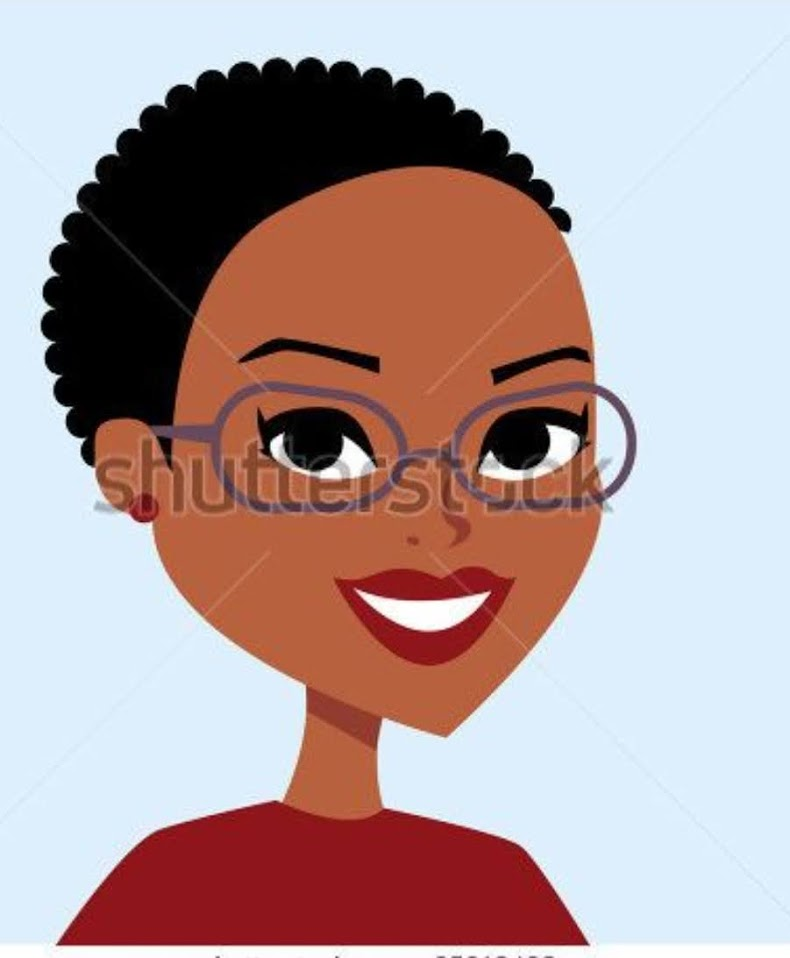
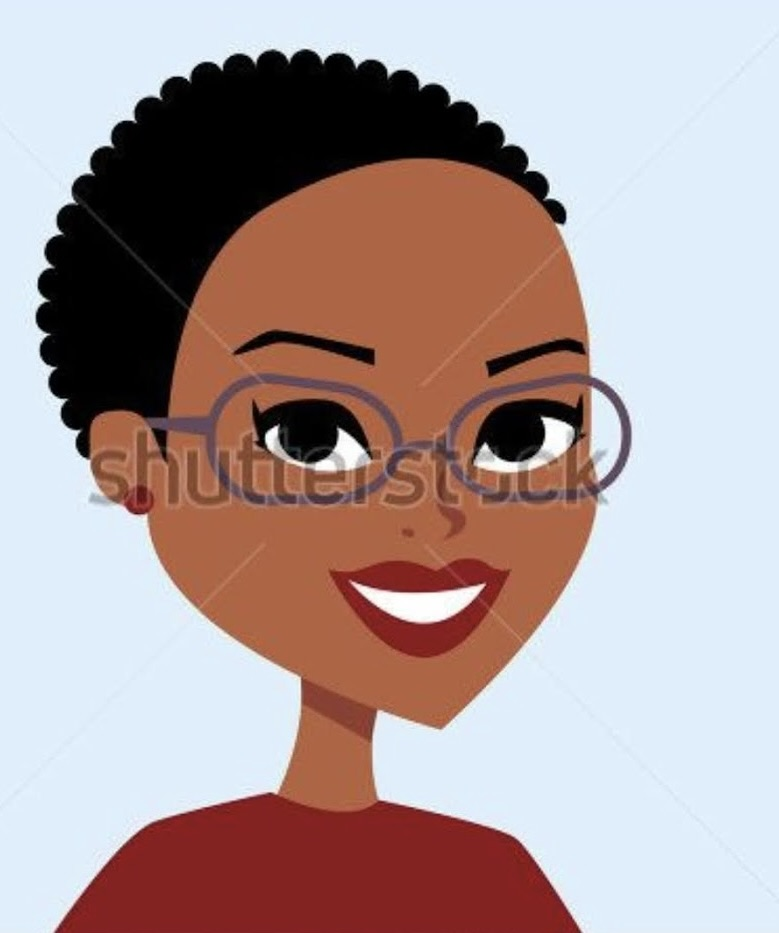
ADDED: navbar, css styling, changed button functionality, added a border on the photos and edited the photos

diff --git a/flask/templates/index1.html b/flask/templates/index1.html
@@ -1,4 +1,4 @@
- <!DOCTYPE html>
+<!DOCTYPE html>
 <html lang="en">
 <head>
     <meta charset="UTF-8">
@@ -13,48 +13,67 @@
     <link href="https://fonts.googleapis.com/css2?family=Anton&display=swap" rel="stylesheet">
 </head>
 <body>
+    <nav class="navbar navbar-expand-lg navbar-light bg-light">
+        <div class="container-fluid">
+            <a class="navbar-brand" href="#"><img id="powerpuffLogo" src="{{ url_for('static', filename='logos/logo22.png') }}" alt="logo" height="75"></a>
+            <button class="navbar-toggler" type="button" data-bs-toggle="collapse" data-bs-target="#navbarNav" aria-controls="navbarNav" aria-expanded="false" aria-label="Toggle navigation">
+                <span class="navbar-toggler-icon"></span>
+            </button>
+
+            <div id="navbarNav" class="collapse navbar-collapse">
+                <ul class="navbar-nav ms-auto">
+                    <li class="nav-item"><a href="#daliya" class="nav-link">Daliya</a></li>
+                    <li class="nav-item"><a href="#daphne" class="nav-link">Daphne</a></li>
+                    <li class="nav-item"><a href="#emma" class="nav-link">Emma</a></li>
+                    <li class="nav-item"><a href="#liya" class="nav-link">Liya</a></li>
+                    <li class="nav-item"><a href="#nadine" class="nav-link">Nadine</a></li>
+                </ul>
+            </div>
+        </div>
+    </nav>
+
     <div class="about-section">
-        <h1>This Is Group 2</h1>
-        <p>Hello we are Group 2</p>
+        <h1>&#9733 This Is Group 2 &#9733</h1>
+        <p>Hello We Are Group 2</p>
         <p>We are girls with the dream to reach the Moon, we will reach it after landing a few stars!!😉</p>
     </div>
     <h2 style="text-align:center">Our Team</h2>
     <div class="row">
         <div class="column">
             <div class="card">
-                <img id ="daliya" src="{{ url_for('static', filename='Screenshot_20250324_140529_Chrome.jpg') }}" alt="Daliya"  style="width:150px; height=auto;">
+                <img id ="daliya" src="{{ url_for('static', filename='daliya.jpg') }}" alt="Daliya">
                 <div class="container">
                     <h2>Daliya</h2>
                     <p class="title">Coding Nurse</p>
                     <p>Meet our mum of two, who aims to be a coding nurse</p>
                     <p>daliya@example.com</p>
-                    <p><button class="button" > <a href = "http://127.0.0.1:8000/daliya/hello1">Know me better!</a> </button></p>
+                    <p><a href="http://127.0.0.1:8000/daliya/hello1"><button class="button">&#9733 Know Daliya &#9733</button></a></p>
                 </div>
             </div>
         </div>
 
     <div class="column">
         <div class="card">
-            <img id ="daphne" src="{{ url_for('static', filename='Daphne.jpg') }}" alt="Daphne"  style="width:150px; height=auto;">
+            <img id="daphne" src="{{ url_for('static', filename='Daphne.jpg') }}" alt="Daphne">
             <div class="container">
                 <h2>Daphne</h2>
                 <p class="title">Coding Support Worker</p>
                 <p>Next is Cool coding aspirant who is going to change the world.</p>
                 <p>daphne@example.com</p>
-                <p><button class="button"><a href = "http://127.0.0.1:8000/daliya/Daphne">Know Daphne!!</a></button></p>
+                <p><a href="http://127.0.0.1:8000/daliya/Daphne"><button class="button">&#9733 Know Daphne &#9733</button></a></p>
                 </div>
             </div>
         </div>
 
     <div class="column">
         <div class="card">
-            <img id ="emma" src="{{ url_for('static', filename='Emma.jpg') }}" alt="Emma"  style="width:150px; height=auto;">
+            <img id ="emma" src="{{ url_for('static', filename='Emma.jpg') }}" alt="Emma">
             <div class="container">
                 <h2>Emma</h2>
                 <p class="title">Coding Police Researcher</p>
                 <p>Here comes, brave and coding Police, who would make the world a better place!!</p>
                 <p>emma@example.com</p>
-                <p><button class="button"><a href = "http://127.0.0.1:8000/daliya/emma">Know Emma!!</a></button></p>
+                <p><a href="http://127.0.0.1:8000/daliya/emma"><button class="button">&#9733 Know Emma &#9733</button></a></p>
                 </div>
             </div>
         </div>
@@ -62,30 +81,31 @@
         <div class="row">
         <div class="column">
             <div class="card">
-                    <img id ="liya" src="{{ url_for('static', filename='Liya.jpg') }}" alt="Liya"  style="width:150px; height=auto;">
+                    <img id ="liya" src="{{ url_for('static', filename='Liya.jpg') }}" alt="Liya">
                 <div class="container">
                     <h2>Liya</h2>
                     <p class="title">Coding Legal Tech Analyst</p>
                     <p>We have the lady of justice who uses her power of Analysis and Coding!!</p>
                     <p>liya@example.com</p>
-                    <p><button class="button"><a href = "http://127.0.0.1:8000/daliya/liya">Know Liya!!</a></button></p>
+                    <p><a href="http://127.0.0.1:8000/daliya/liya"><button class="button">&#9733 Know Liya &#9733</button></a></p>
                 </div>
             </div>
         </div>
 
         <div class="column">
             <div class="card">
-                    <img id ="nadine" src="{{ url_for('static', filename='Nadine.jpg') }}" alt="Nadine"  style="width:150px; height=auto;">
+                    <img id ="nadine" src="{{ url_for('static', filename='Nadine.jpg') }}" alt="Nadine">
                 <div class="container">
                     <h2>Nadine</h2>
                     <p class="title">Aspiring Coding Entrepreneur and Student</p>
                     <p>Last but not least, in any terms. Team lead in the making, a bright  tech student</p>
                     <p>nadine@example.com</p>
-                    <p><button class="button"><a href = "http://127.0.0.1:8000/daliya/nadine/hello_nadine">Know Nadine!!</a></button></p>
+                    <p><a href="http://127.0.0.1:8000/daliya/nadine/hello_nadine"><button class="button">&#9733 Know Nadine &#9733</button></a></p>
                 </div>
             </div>
         </div>
     </div>
 </div>
+<footer>&copy; Powerpuff Profiles 2025</footer>
 </body>
 </html>

diff --git a/flask/static/style1.css b/flask/static/style1.css
@@ -1,64 +1,88 @@
+.navbar {
+    position: fixed;
+    top: 0;
+    left: 0;
+    right: 0;
+    z-index: 1000;
+    box-shadow: 5px darkgray;
+}
+
+.navbar-light.bg-light {
+    background-color: rgba(255, 255, 255, 0.9);
+}
+
+.nav-item {
+    text-transform: capitalize;
+}
+
+
 body {
-  font-family: "Anton", sans-serif;
-  margin: 0;
+    font-family: "Anton", sans-serif;
+    margin: 0;
 }
 
 html {
-  box-sizing: border-box;
+    box-sizing: border-box;
 }
 
 *, *:before, *:after {
-  box-sizing: inherit;
+    box-sizing: inherit;
 }
 
 .column {
-  float: right;
-  width: 33.3%;
-  margin-bottom: 16px;
-  padding: 0 8px;
-
+    float: right;
+    width: 33.3%;
+    margin-bottom: 16px;
+    padding: 0 8px;
 }
 
 .card {
-  box-shadow: 0 4px 8px 0 rgba(0, 0, 0, 0.2);
-  margin: 8px;
+    box-shadow: 0 4px 8px 0 rgba(0, 0, 0, 0.2);
+    margin: 8px;
+    padding-left: 10px;
 }
 
 .about-section {
-  padding: 50px;
-  text-align: center;
-  background-color: #a480cfff;
-  color: white;
+    padding: 50px;
+    text-align: center;
+    background-color: #a480cfff;
+    color: white;
 }
 
 .container {
-  padding: 0 16px;
+    padding: 0 16px;
 }
 
 .container::after, .row::after {
-  content: "";
-  clear: both;
-  display: table;
+    content: "";
+    clear: both;
+    display: table;
 }
 
 .title {
-  color: grey;
+    color: grey;
 }
 
 .button {
-  border: none;
-  outline: 0;
-  display: inline-block;
-  padding: 8px;
-  color: white;
-  background-color: #ff499eff;
-  text-align: center;
-  cursor: pointer;
-  width: 100%;
+    border: none;
+    outline: 0;
+    display: inline-block;
+    padding: 8px;
+    color: white;
+    background-color: #ff499eff;
+    text-align: center;
+    cursor: pointer;
+    width: 100%;
+    box-shadow: 4px 4px 10px #d13e7d;
+}
+
+p .button {
+    text-transform: capitalize;
+    font-weight: bold;
 }
 
 .button:hover {
-  background-color: #d264b6ff;
+    background-color: #d264b6ff;
 }
 
 @media screen and (max-width: 650px) {
@@ -67,10 +91,20 @@ html {
     display: block;
   }
 }
-#daliya{
-width: 50px;
-height: auto;
-border-radius: 4px;
-padding: 5px;
 
+
+#daliya, #daphne, #emma, #liya, #nadine {
+    width: 150px;
+    height: auto;
+    border: 3px solid white;
+    border-radius: 4px;
+    box-shadow: 0 4px 8px 0 rgba(0, 0, 0, 0.2);
+    margin-bottom: 10px;
+    margin-top: 10px;
 }
+
+footer {
+    padding-left: 20px;
+    padding-bottom: 20px;
+}
+
